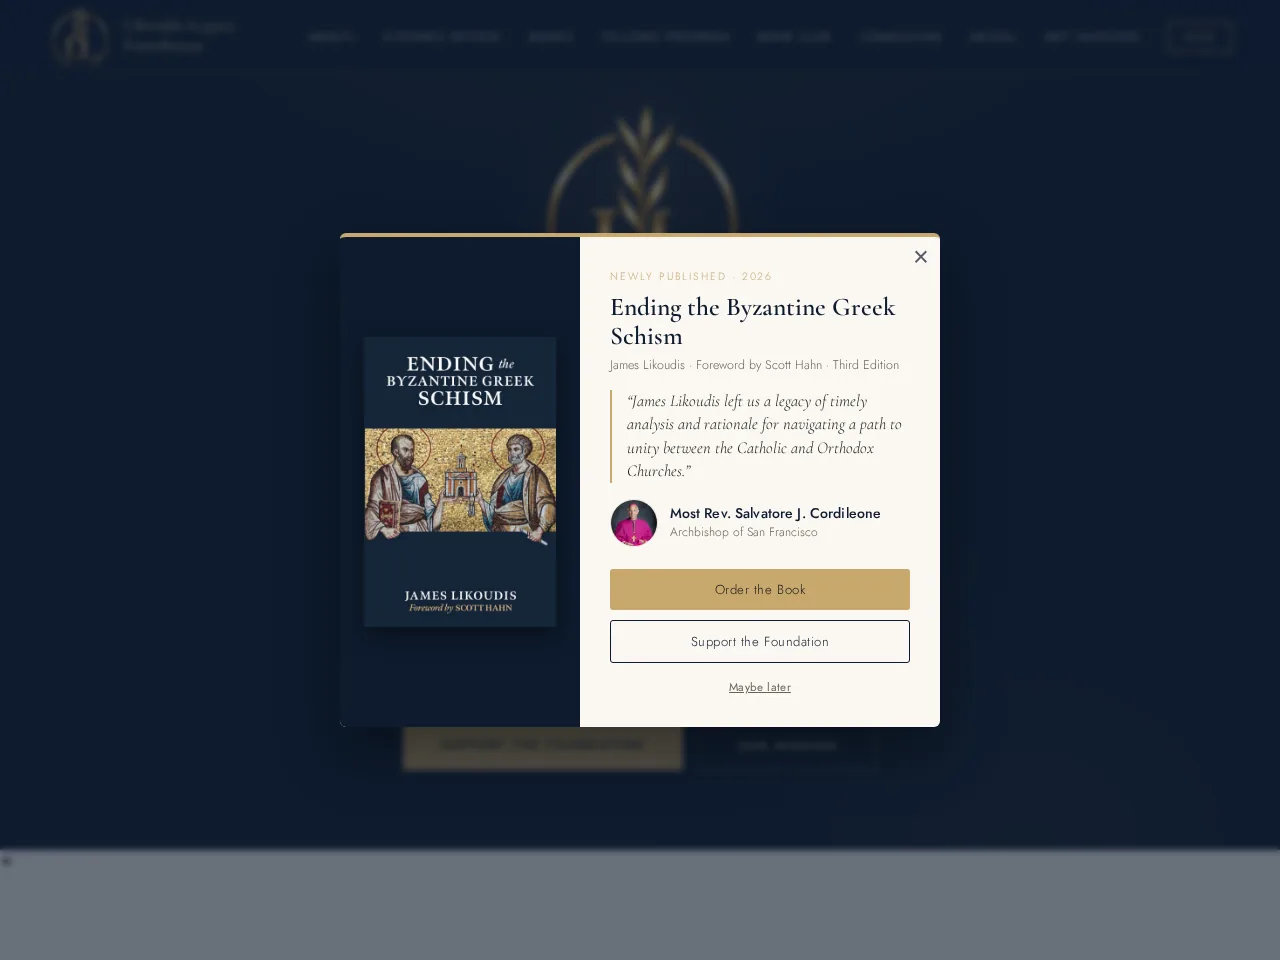
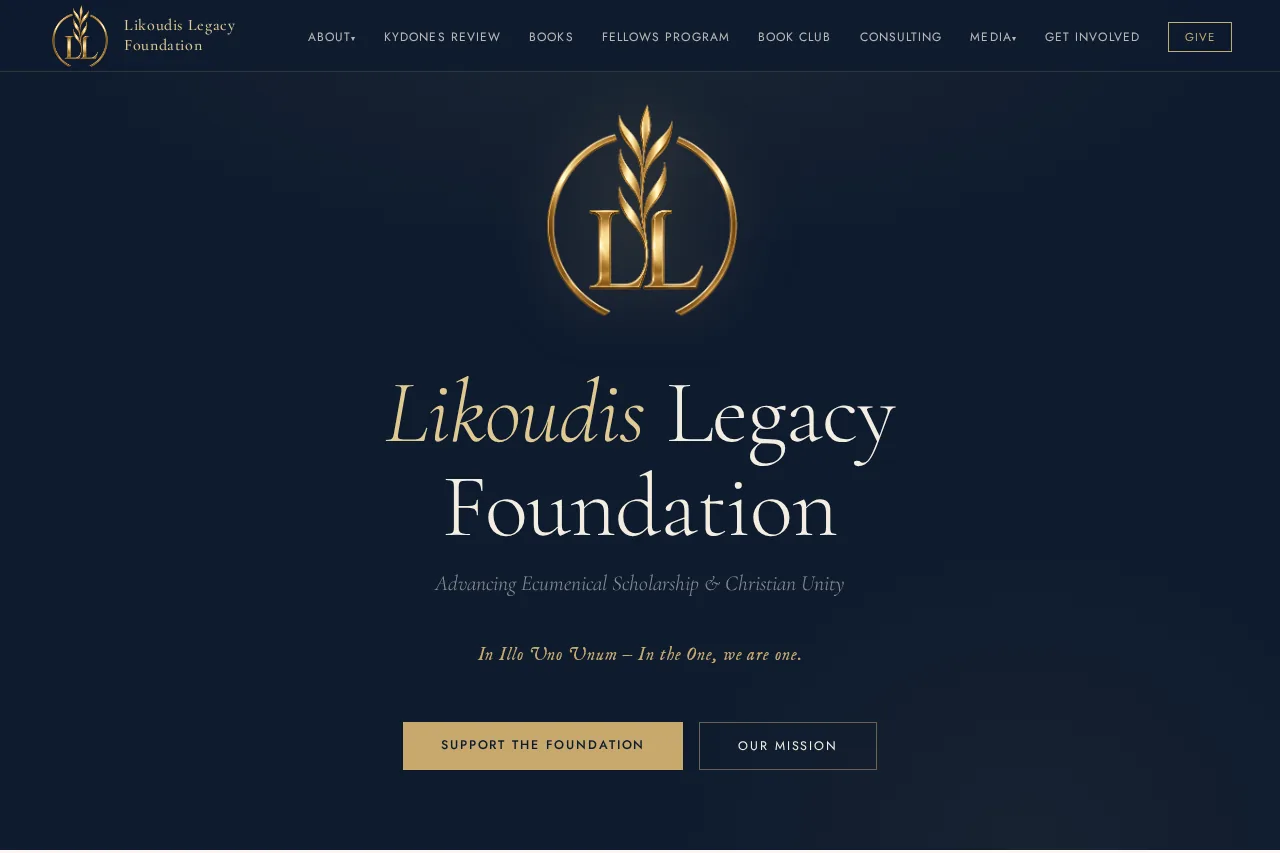
Screenshots at 3:2 (1280x853), measured clean across all heroes; dismiss LLF promo modal; cards to aspect-ratio 3/2

diff --git a/style.css b/style.css
@@ -239,7 +239,7 @@
     .port-card{display:flex;flex-direction:column}
     .port-shot{display:block;border-radius:10px;overflow:hidden;text-decoration:none;margin-bottom:1.5rem;background:var(--charcoal-mid);box-shadow:var(--shadow-lg),0 0 0 1px rgba(0,0,0,.06);transition:transform .3s ease,box-shadow .3s ease}
     .port-shot:hover{transform:translateY(-6px);box-shadow:var(--shadow-xl),0 0 0 1px rgba(0,0,0,.08)}
-    .port-img{display:block;width:100%;height:auto;aspect-ratio:4/3;object-fit:cover;object-position:top center}
+    .port-img{display:block;width:100%;height:auto;aspect-ratio:3/2;object-fit:cover;object-position:top center}
     .port-third{margin-top:3.5rem;padding-top:3.5rem;border-top:1px solid var(--border-light);display:grid;grid-template-columns:200px 1fr;gap:2.5rem;align-items:center}
     @media(max-width:560px){.port-third{grid-template-columns:1fr}}
     .port-third-card{background:linear-gradient(145deg,#0d1f0d,#1a3a1a);border-radius:8px;height:130px;display:flex;align-items:center;justify-content:center;font-family:var(--font-body);font-size:.9rem;font-style:italic;color:rgba(141,184,122,.8);border:1px solid rgba(141,184,122,.1);box-shadow:var(--shadow-md)}
@@ -506,7 +506,7 @@
     .cs-media{position:relative;min-width:0}
     .cs-shot{display:block;border-radius:10px;overflow:hidden;text-decoration:none;background:var(--charcoal-mid);box-shadow:var(--shadow-lg),0 0 0 1px rgba(0,0,0,.06);transition:transform .35s ease,box-shadow .35s ease;position:relative}
     .cs-shot:hover{transform:translateY(-6px);box-shadow:var(--shadow-xl),0 0 0 1px rgba(0,0,0,.08)}
-    .cs-img{display:block;width:100%;height:auto;aspect-ratio:4/3;object-fit:cover;object-position:top center}
+    .cs-img{display:block;width:100%;height:auto;aspect-ratio:3/2;object-fit:cover;object-position:top center}
     .cs-view{position:absolute;inset:0;display:flex;align-items:flex-end;justify-content:flex-end;padding:1rem;background:linear-gradient(to top,rgba(22,20,18,.55),transparent 50%);opacity:0;transition:opacity .3s ease;pointer-events:none}
     .cs-shot:hover .cs-view{opacity:1}
     .cs-view span{font-family:var(--font-head);font-size:.6rem;font-weight:700;letter-spacing:.12em;text-transform:uppercase;color:#fff;background:rgba(196,154,42,.94);padding:.42rem .85rem;border-radius:30px;display:inline-flex;align-items:center;gap:.4rem}
@@ -539,7 +539,7 @@
     .more-card{display:flex;flex-direction:column;min-width:0}
     .more-shot{position:relative;display:block;border-radius:8px;overflow:hidden;text-decoration:none;background:var(--charcoal-mid);box-shadow:var(--shadow-md),0 0 0 1px rgba(0,0,0,.06);margin-bottom:1.1rem;transition:transform .3s ease,box-shadow .3s ease}
     .more-shot:hover{transform:translateY(-5px);box-shadow:var(--shadow-lg),0 0 0 1px rgba(0,0,0,.08)}
-    .more-img{display:block;width:100%;height:auto;aspect-ratio:4/3;object-fit:cover;object-position:top center;transition:transform .5s ease}
+    .more-img{display:block;width:100%;height:auto;aspect-ratio:3/2;object-fit:cover;object-position:top center;transition:transform .5s ease}
     .more-shot:hover .more-img{transform:scale(1.04)}
     .more-view{position:absolute;inset:0;display:flex;align-items:flex-end;justify-content:flex-end;padding:.8rem;background:linear-gradient(to top,rgba(22,20,18,.5),transparent 55%);opacity:0;transition:opacity .3s ease;pointer-events:none}
     .more-shot:hover .more-view{opacity:1}
